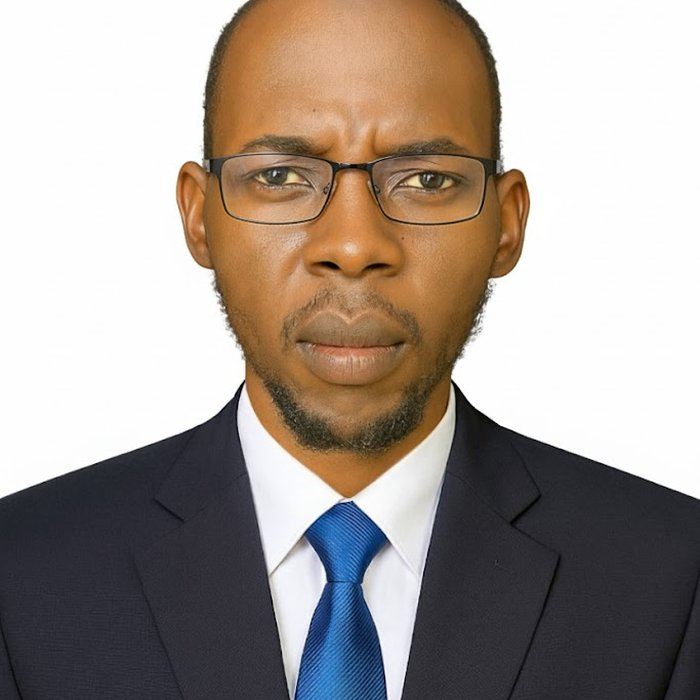
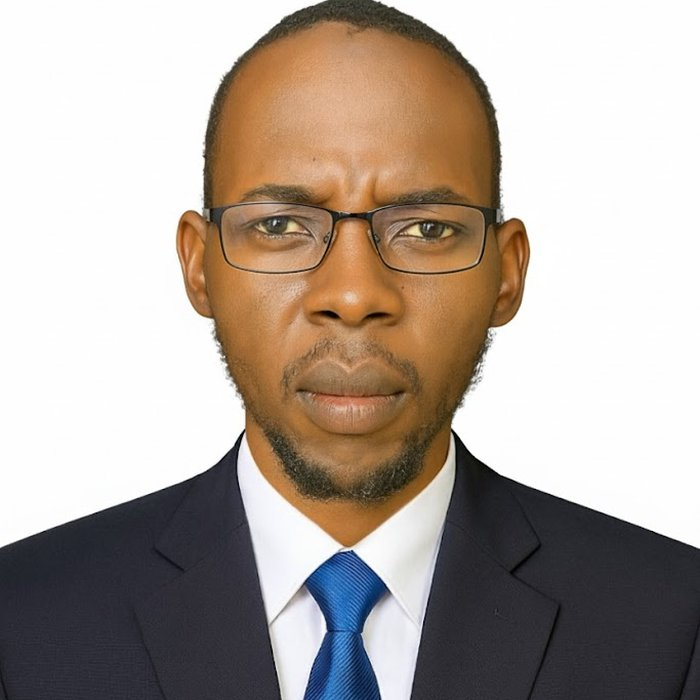
Fix hero photo crop; remove Laravel references

diff --git a/index.html b/index.html
@@ -637,7 +637,7 @@
             <div class="about-grid">
                 <div class="about-card">
                     <h3><i class="fas fa-laptop-code"></i> The Developer</h3>
-                    <p>I build backend systems and full-stack web applications using PHP, Laravel, JavaScript, TypeScript and React. My projects range from multi-section school management platforms to QR-based restaurant ordering systems with Paystack payments and a property marketplace for Nigeria.</p>
+                    <p>I build backend systems and full-stack web applications using PHP, JavaScript, TypeScript and React. My projects range from multi-section school management platforms to QR-based restaurant ordering systems with Paystack payments and a property marketplace for Nigeria.</p>
                     <p style="margin-top:12px;">I focus on clean, maintainable code and user-friendly interfaces that solve real problems for real users.</p>
                 </div>
                 <div class="about-card">
@@ -672,7 +672,7 @@
                 <div class="card">
                     <div class="icon"><i class="fas fa-server"></i></div>
                     <h3>Backend &amp; APIs</h3>
-                    <p>REST APIs, authentication, roles and database design with PHP, Laravel and Node.js.</p>
+                    <p>REST APIs, authentication, roles and database design with PHP and Node.js.</p>
                 </div>
                 <div class="card">
                     <div class="icon"><i class="fas fa-layer-group"></i></div>
@@ -776,17 +776,6 @@
                     </div>
                 </div>
                 <div class="project-card">
-                    <div class="project-thumb"><img src="assets/projects/pitch-manager.jpg" alt="Pitch Manager" loading="lazy"></div>
-                    <div class="project-body">
-                        <h3>Pitch Manager</h3>
-                        <p>Sports pitch booking and management platform — schedules, availability and bookings handled cleanly.</p>
-                        <div class="tags"><span class="tag">Laravel</span><span class="tag">PHP</span><span class="tag">Booking</span></div>
-                        <div class="project-links">
-                            <a href="https://github.com/Dankwarai/pitch-manager" target="_blank" rel="noopener"><i class="fab fa-github"></i> Repository</a>
-                        </div>
-                    </div>
-                </div>
-                <div class="project-card">
                     <div class="project-thumb"><img src="assets/projects/student-ms.jpg" alt="Student Management System" loading="lazy"></div>
                     <div class="project-body">
                         <h3>Student Management System</h3>
@@ -797,17 +786,9 @@
                         </div>
                     </div>
                 </div>
-                <div class="project-card">
-                    <div class="project-thumb"><img src="assets/projects/qr-ordering.jpg" alt="More on GitHub" loading="lazy"></div>
-                    <div class="project-body">
-                        <h3>And more on GitHub…</h3>
-                        <p>20+ additional repositories from school systems to dashboards, utilities and experiments.</p>
-                        <div class="tags"><span class="tag">25+ repos</span></div>
-                        <div class="project-links">
-                            <a href="https://github.com/Dankwarai?tab=repositories" target="_blank" rel="noopener"><i class="fab fa-github"></i> All repositories</a>
-                        </div>
-                    </div>
-                </div>
+            </div>
+            <div style="text-align:center; margin-top: 34px;">
+                <a href="https://github.com/Dankwarai?tab=repositories" target="_blank" rel="noopener" class="btn"><i class="fab fa-github"></i> View all 25+ projects on GitHub</a>
             </div>
         </div>
     </section>
@@ -850,7 +831,6 @@
                 <h3><i class="fas fa-code"></i> Development</h3>
                 <div class="skill-badges">
                     <span class="skill-badge">PHP</span>
-                    <span class="skill-badge">Laravel</span>
                     <span class="skill-badge">JavaScript</span>
                     <span class="skill-badge">TypeScript</span>
                     <span class="skill-badge">React</span>
